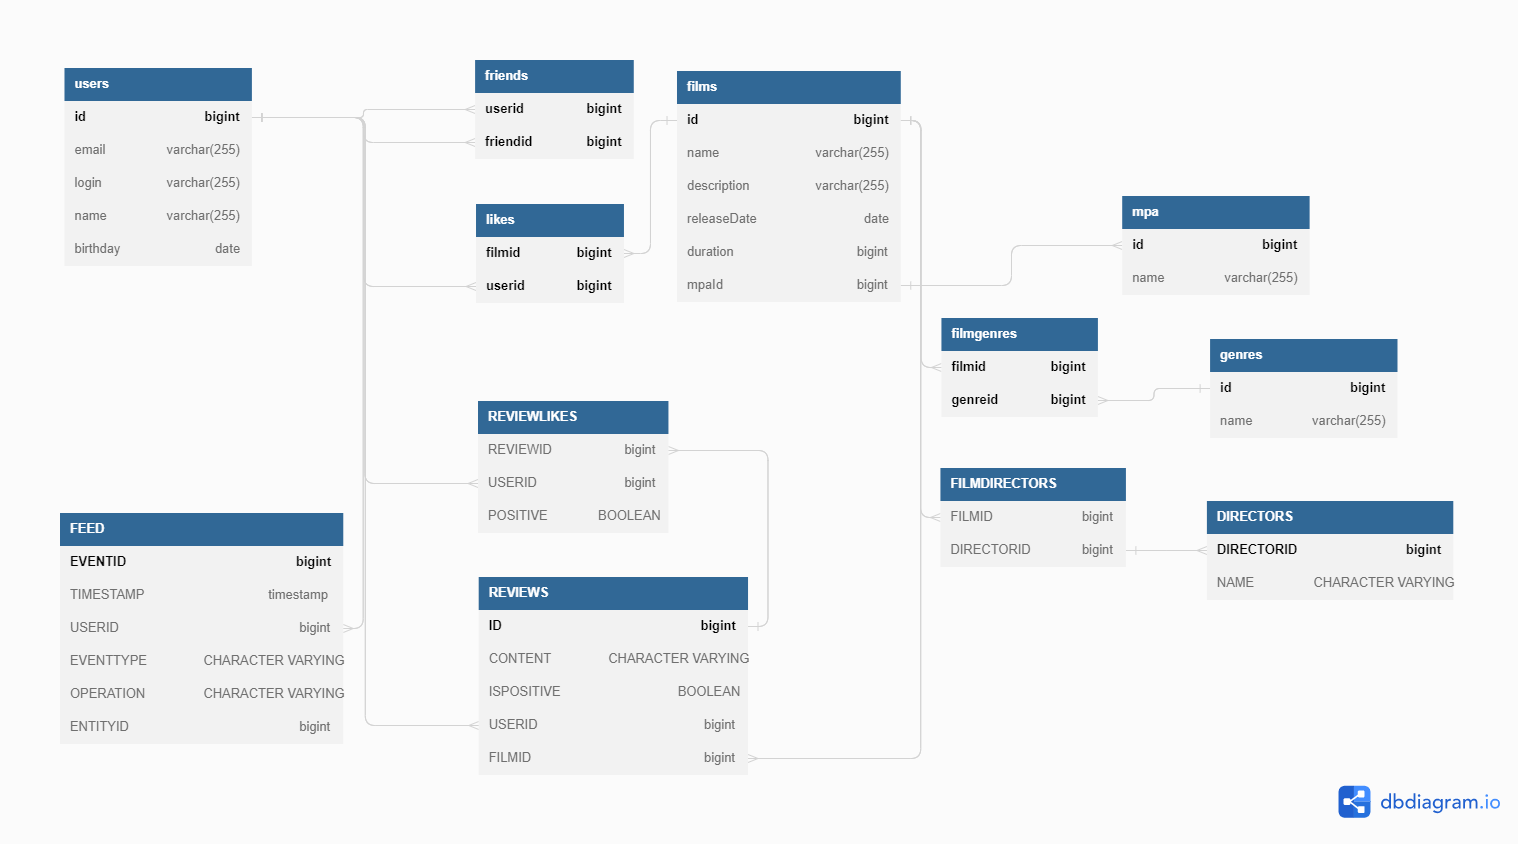
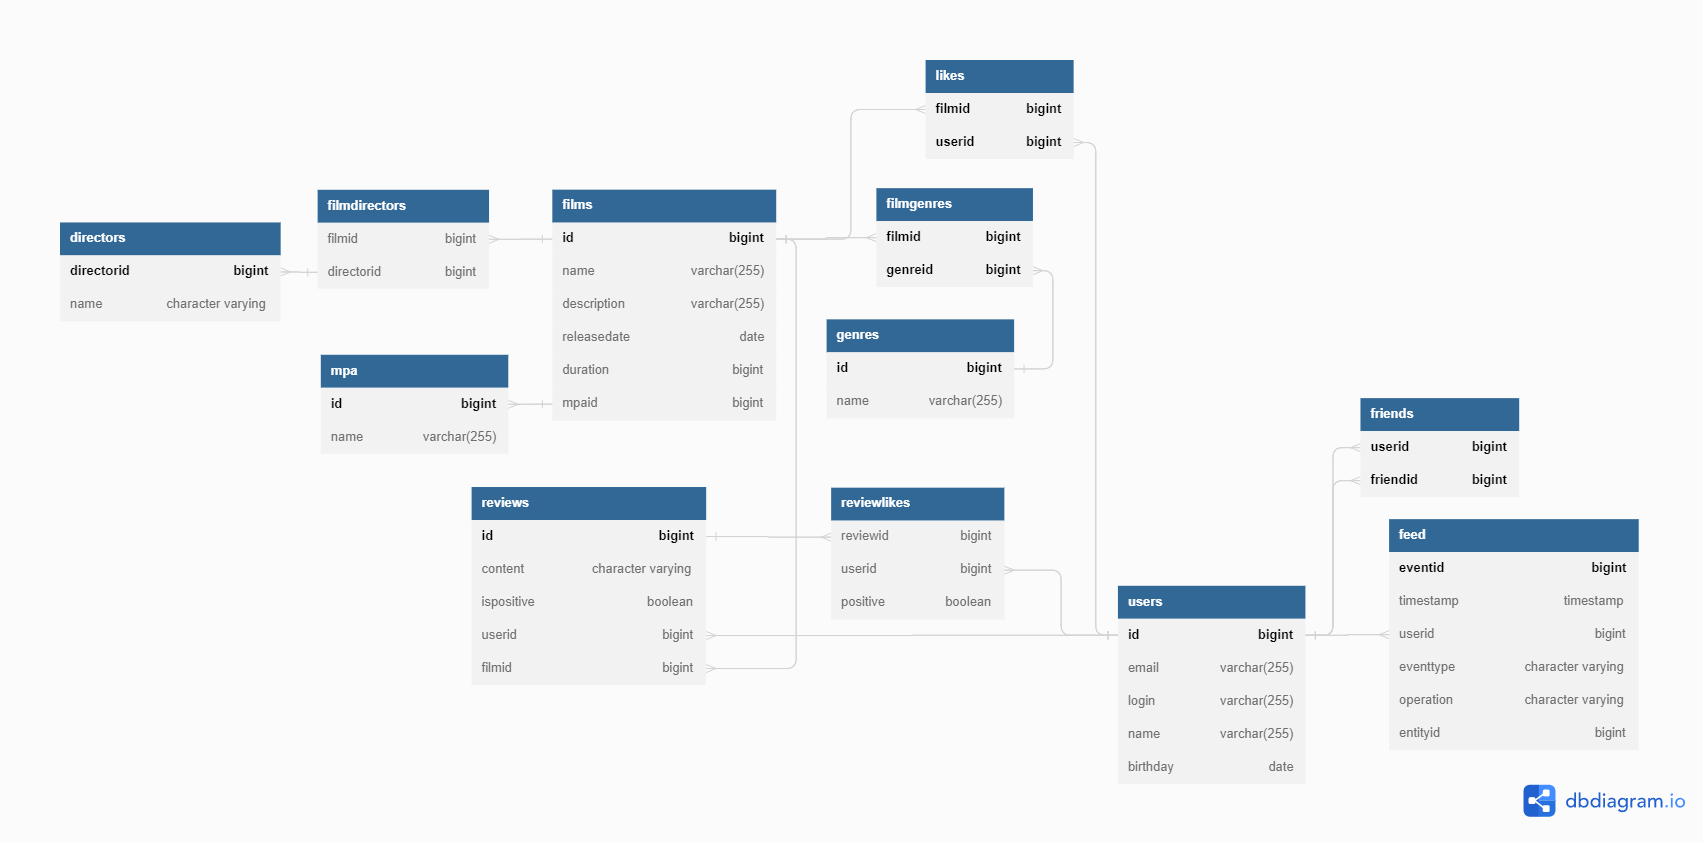
version 1.4 STYLE Доработан файл README

diff --git a/README.md b/README.md
@@ -184,6 +184,32 @@ mvn spring-boot:run
 </details>
 
 
-# * Спринт 12
-https://dbdiagram.io/d/64833537722eb77494b25d51
+#  Спринт 12
+
+Сетевой адрес расположения схемы: https://dbdiagram.io/d/64833537722eb77494b25d51
+
 ![](images/FILMORATE_DBSPR12.png)
+
+В программу добавлен функционал (изменения на схеме выше):
+### 1. Функциональность «Общие фильмы».
+Вывод общих с другом фильмов с сортировкой по их популярности.
+### 2. Функциональность «Удаление фильмов и пользователей».
+Удаление фильма и пользователя по идентификатору.
+### 3. Функциональность «Популярные фильмы».
+Вывод топ-N фильмов по количеству лайков.
+Фильтрация по двум параметрам:
+ - По жанру.
+ - За указанный год.
+### 4. Функциональность «Поиск».
+Поиск по названию фильмов и по режиссёру.
+### 5. Функциональность «Рекомендации».
+Вывод списка фильмов, которые получили лайк от пользователь с похожими вкусам (а вы эти фильмы не смотрели).
+### 6. Функциональность «Лента событий».
+Вывод последних событий на платформе — добавление в друзья, удаление из друзей, лайки и отзывы, которые оставили друзья пользователя.
+### 7. Функциональность «Отзывы».
+Отзывы на фильмы, имеют рейтинг и несколько дополнительных характеристик.
+### 8. Функциональность «Фильмы по режиссёрам».
+В информацию о фильмах добавлено имя режиссёра. После этого появилась следующая функциональность:
+ - Вывод всех фильмов режиссёра, отсортированных по количеству лайков.
+ - Вывод всех фильмов режиссёра, отсортированных по годам.
+
